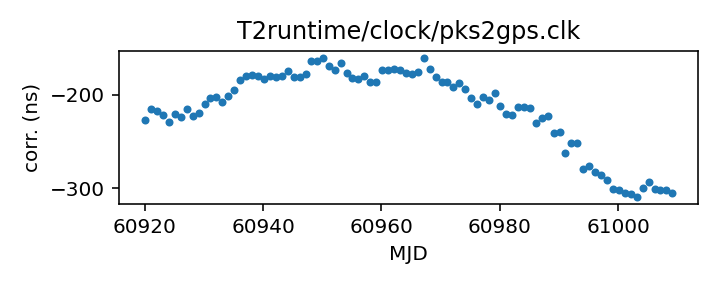
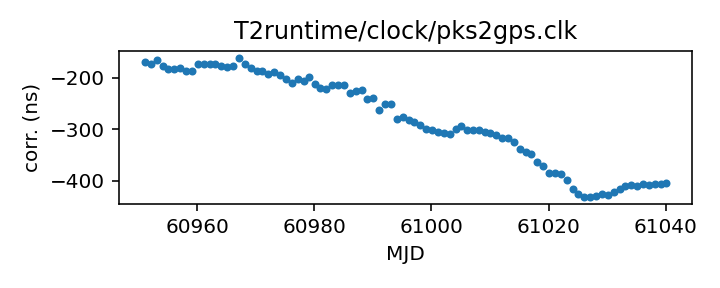
Routine gh-pages update from Github action Mon Jan 19 20:46:36 UTC 2026

diff --git a/status.md b/status.md
@@ -13,18 +13,18 @@ name of each clock file links to a page with more details.
 
 | Name | File | Corrections start | Corrections end | Last check date | Last check result 
 |:--- |:--- | --- | --- | --- |:--- 
-| [GPS to UTC](T2runtime/clock/gps2utc.clk.html) | `T2runtime/clock/gps2utc.clk` | 1993-01-01 MJD 48988.0 | 2025-12-30 MJD 61039.0 | 2026-01-18 | Unchanged 
-| [GPS to UTC (Combined Clock)](T2runtime/clock/gps2utc_cc.clk.html) | `T2runtime/clock/gps2utc_cc.clk` | 1993-01-01 MJD 48988.0 | 2025-12-30 MJD 61039.0 | 2026-01-18 | Unchanged 
-| [GPS to UTC (Corrected)](T2runtime/clock/gps2utc_c0p.clk.html) | `T2runtime/clock/gps2utc_c0p.clk` | 2010-12-29 MJD 55559.0 | 2025-12-30 MJD 61039.0 | 2026-01-18 | Unchanged 
-| [GBT](tempo/clock/time_gbt.dat.html) | `tempo/clock/time_gbt.dat` | 2000-12-31 MJD 51909.5 | 2026-01-17 MJD 61057.5 | 2026-01-18 | Updated 
-| [GBT (TEMPO2 converted from TEMPO)](T2runtime/clock/gbt2gps.clk.html) | `T2runtime/clock/gbt2gps.clk` | 2000-12-31 MJD 51909.5 | 2024-05-18 MJD 60448.5 | 2026-01-18 | **Validation failed** 
-| [Jodrell Bank](T2runtime/clock/jb2gps.clk.html) | `T2runtime/clock/jb2gps.clk` | 2006-10-13 MJD 54021.4 | 2025-10-08 MJD 60956.0 | 2026-01-12 | **Validation failed** 
-| [Jodrell Bank Roach](T2runtime/clock/jbroach2jb.clk.html) | `T2runtime/clock/jbroach2jb.clk` | 2006-10-13 MJD 54021.4 | 2018-03-20 MJD 58197.6 | 2026-01-12 | Unchanged 
-| [Jodrell Bank DFB](T2runtime/clock/jbdfb2jb.clk.html) | `T2runtime/clock/jbdfb2jb.clk` | 2006-10-13 MJD 54021.4 | 2021-02-22 MJD 59268.0 | 2026-01-12 | Unchanged 
-| [Meerkat (observatory)](T2runtime/clock/mk2utc_observatory.clk.html) | `T2runtime/clock/mk2utc_observatory.clk` | 2019-01-01 MJD 58484.0 | 2026-01-07 MJD 61048.0 | 2026-01-12 | Updated 
-| [Leap seconds](tempo/clock/leap.sec.html) | `tempo/clock/leap.sec` | 1972-07-01 MJD 41499.0 | 2017-01-01 MJD 57754.0 | 2026-01-18 | Unchanged 
-| [UT1 table](tempo/clock/ut1.dat.html) | `tempo/clock/ut1.dat` | 1973-01-02 MJD 41684.0 | 2027-01-23 MJD 61428.0 | 2026-01-18 | Unchanged 
-| [UT1 table](T2runtime/clock/ut1.dat.html) | `T2runtime/clock/ut1.dat` | 1973-01-02 MJD 41684.0 | 2027-01-23 MJD 61428.0 | 2026-01-18 | Unchanged 
+| [GPS to UTC](T2runtime/clock/gps2utc.clk.html) | `T2runtime/clock/gps2utc.clk` | 1993-01-01 MJD 48988.0 | 2025-12-30 MJD 61039.0 | 2026-01-19 | Unchanged 
+| [GPS to UTC (Combined Clock)](T2runtime/clock/gps2utc_cc.clk.html) | `T2runtime/clock/gps2utc_cc.clk` | 1993-01-01 MJD 48988.0 | 2025-12-30 MJD 61039.0 | 2026-01-19 | Unchanged 
+| [GPS to UTC (Corrected)](T2runtime/clock/gps2utc_c0p.clk.html) | `T2runtime/clock/gps2utc_c0p.clk` | 2010-12-29 MJD 55559.0 | 2025-12-30 MJD 61039.0 | 2026-01-19 | Unchanged 
+| [GBT](tempo/clock/time_gbt.dat.html) | `tempo/clock/time_gbt.dat` | 2000-12-31 MJD 51909.5 | 2026-01-18 MJD 61058.5 | 2026-01-19 | Updated 
+| [GBT (TEMPO2 converted from TEMPO)](T2runtime/clock/gbt2gps.clk.html) | `T2runtime/clock/gbt2gps.clk` | 2000-12-31 MJD 51909.5 | 2024-05-18 MJD 60448.5 | 2026-01-19 | **Validation failed** 
+| [Jodrell Bank](T2runtime/clock/jb2gps.clk.html) | `T2runtime/clock/jb2gps.clk` | 2006-10-13 MJD 54021.4 | 2025-10-08 MJD 60956.0 | 2026-01-19 | **Validation failed** 
+| [Jodrell Bank Roach](T2runtime/clock/jbroach2jb.clk.html) | `T2runtime/clock/jbroach2jb.clk` | 2006-10-13 MJD 54021.4 | 2018-03-20 MJD 58197.6 | 2026-01-19 | Unchanged 
+| [Jodrell Bank DFB](T2runtime/clock/jbdfb2jb.clk.html) | `T2runtime/clock/jbdfb2jb.clk` | 2006-10-13 MJD 54021.4 | 2021-02-22 MJD 59268.0 | 2026-01-19 | Unchanged 
+| [Meerkat (observatory)](T2runtime/clock/mk2utc_observatory.clk.html) | `T2runtime/clock/mk2utc_observatory.clk` | 2019-01-01 MJD 58484.0 | 2026-01-07 MJD 61048.0 | 2026-01-19 | Unchanged 
+| [Leap seconds](tempo/clock/leap.sec.html) | `tempo/clock/leap.sec` | 1972-07-01 MJD 41499.0 | 2017-01-01 MJD 57754.0 | 2026-01-19 | Unchanged 
+| [UT1 table](tempo/clock/ut1.dat.html) | `tempo/clock/ut1.dat` | 1973-01-02 MJD 41684.0 | 2027-01-23 MJD 61428.0 | 2026-01-19 | Unchanged 
+| [UT1 table](T2runtime/clock/ut1.dat.html) | `T2runtime/clock/ut1.dat` | 1973-01-02 MJD 41684.0 | 2027-01-23 MJD 61428.0 | 2026-01-19 | Unchanged 
 
 
 
@@ -68,26 +68,26 @@ name of each clock file links to a page with more details.
 
 | Name | File | Corrections start | Corrections end | Last check date | Last check result 
 |:--- |:--- | --- | --- | --- |:--- 
-| [GPS to UTC (TEMPO2)](T2runtime/clock/gpst2utc_tempo2.clk.html) | `T2runtime/clock/gpst2utc_tempo2.clk` | 1993-01-01 MJD 48988.0 | 2024-12-30 MJD 60674.0 | 2026-01-12 | Unchanged 
-| [GBT (TEMPO2)](T2runtime/clock/gbt2gps_tempo2.clk.html) | `T2runtime/clock/gbt2gps_tempo2.clk` | 2000-12-31 MJD 51909.5 | 2020-02-25 MJD 58904.5 | 2026-01-12 | Unchanged 
-| [Jodrell Bank (TEMPO)](tempo/clock/time_jb.dat.html) | `tempo/clock/time_jb.dat` | 2006-10-13 MJD 54021.4 | 2019-05-13 MJD 58616.2 | 2026-01-12 | Unchanged 
-| [VLA](tempo/clock/time_vla.dat.html) | `tempo/clock/time_vla.dat` | 1990-10-27 MJD 48191.2 | 2025-02-10 MJD 60716.2 | 2026-01-12 | Unchanged 
-| [VLA (TEMPO2)](T2runtime/clock/vla2gps.clk.html) | `T2runtime/clock/vla2gps.clk` | 2015-02-01 MJD 57054.6 | 2025-02-10 MJD 60716.2 | 2026-01-12 | Unchanged 
-| [VLA to NIST](T2runtime/clock/vla2nist.clk.html) | `T2runtime/clock/vla2nist.clk` | 1990-10-27 MJD 48191.2 | 1993-11-13 MJD 49304.0 | 2026-01-12 | Unchanged 
-| [FAST](tempo/clock/time_fast.dat.html) | `tempo/clock/time_fast.dat` | 2017-07-27 MJD 57961.0 | 2025-08-25 MJD 60913.0 | 2026-01-12 | **Failed to download** 
-| [WSRT](T2runtime/clock/wsrt2gps.clk.html) | `T2runtime/clock/wsrt2gps.clk` | 1999-01-01 MJD 51179.5 | 2015-06-29 MJD 57202.1 | 2026-01-12 | Unchanged 
-| [WSRT (TEMPO)](tempo/clock/time_wsrt.dat.html) | `tempo/clock/time_wsrt.dat` | 1987-07-24 MJD 47000.0 | 2007-12-24 MJD 54458.0 | 2026-01-12 | **Validation failed** 
-| [Parkes](T2runtime/clock/pks2gps.clk.html) | `T2runtime/clock/pks2gps.clk` | 1858-11-17 MJD 0.0 | 2025-11-30 MJD 61009.1 | 2026-01-12 | Unchanged 
-| [Parkes (TEMPO)](tempo/clock/time_pks.dat.html) | `tempo/clock/time_pks.dat` | 1979-05-07 MJD 44000.0 | 2011-07-03 MJD 55745.8 | 2026-01-12 | Unchanged 
-| [SRT](T2runtime/clock/srt2gps.clk.html) | `T2runtime/clock/srt2gps.clk` | 2013-03-20 MJD 56371.0 | 2019-12-11 MJD 58828.0 | 2026-01-12 | Unchanged 
-| [Effelsberg](T2runtime/clock/eff2gps.clk.html) | `T2runtime/clock/eff2gps.clk` | 1993-11-29 MJD 49320.0 | 2015-06-22 MJD 57195.5 | 2026-01-12 | Unchanged 
-| [Effelsberg Asterix/PSRix](T2runtime/clock/effix2gps.clk.html) | `T2runtime/clock/effix2gps.clk` | 2011-01-01 MJD 55562.5 | 2021-03-21 MJD 59294.5 | 2026-01-12 | Unchanged 
-| [LEAP](T2runtime/clock/leap2effix.clk.html) | `T2runtime/clock/leap2effix.clk` | 2012-10-29 MJD 56230.0 | 2014-03-04 MJD 56720.0 | 2026-01-12 | Unchanged 
-| [NUPPI](tempo/clock/time_nuppi.dat.html) | `tempo/clock/time_nuppi.dat` | 2005-03-07 MJD 53436.0 | 2015-11-08 MJD 57334.6 | 2026-01-12 | Unchanged 
-| [Meerkat (TEMPO2)](T2runtime/clock/mk2utc.clk.html) | `T2runtime/clock/mk2utc.clk` | 2019-01-01 MJD 58484.0 | 2024-09-23 MJD 60576.9 | 2026-01-12 | **Validation failed** 
-| [MOST](T2runtime/clock/mo2gps.clk.html) | `T2runtime/clock/mo2gps.clk` | 2003-12-27 MJD 53000.0 | 2018-09-06 MJD 58367.0 | 2026-01-12 | Unchanged 
-| [Nancay to obspm](T2runtime/clock/ncyobs2obspm.clk.html) | `T2runtime/clock/ncyobs2obspm.clk` | 1988-05-18 MJD 47299.6 | 2024-12-30 MJD 60674.0 | 2026-01-12 | Unchanged 
-| [obspm](T2runtime/clock/obspm2gps.clk.html) | `T2runtime/clock/obspm2gps.clk` | 2003-12-01 MJD 52974.0 | 2023-10-27 MJD 60244.0 | 2026-01-12 | Unchanged 
+| [GPS to UTC (TEMPO2)](T2runtime/clock/gpst2utc_tempo2.clk.html) | `T2runtime/clock/gpst2utc_tempo2.clk` | 1993-01-01 MJD 48988.0 | 2024-12-30 MJD 60674.0 | 2026-01-19 | Unchanged 
+| [GBT (TEMPO2)](T2runtime/clock/gbt2gps_tempo2.clk.html) | `T2runtime/clock/gbt2gps_tempo2.clk` | 2000-12-31 MJD 51909.5 | 2020-02-25 MJD 58904.5 | 2026-01-19 | Unchanged 
+| [Jodrell Bank (TEMPO)](tempo/clock/time_jb.dat.html) | `tempo/clock/time_jb.dat` | 2006-10-13 MJD 54021.4 | 2019-05-13 MJD 58616.2 | 2026-01-19 | Unchanged 
+| [VLA](tempo/clock/time_vla.dat.html) | `tempo/clock/time_vla.dat` | 1990-10-27 MJD 48191.2 | 2025-02-10 MJD 60716.2 | 2026-01-19 | Unchanged 
+| [VLA (TEMPO2)](T2runtime/clock/vla2gps.clk.html) | `T2runtime/clock/vla2gps.clk` | 2015-02-01 MJD 57054.6 | 2025-02-10 MJD 60716.2 | 2026-01-19 | Unchanged 
+| [VLA to NIST](T2runtime/clock/vla2nist.clk.html) | `T2runtime/clock/vla2nist.clk` | 1990-10-27 MJD 48191.2 | 1993-11-13 MJD 49304.0 | 2026-01-19 | Unchanged 
+| [FAST](tempo/clock/time_fast.dat.html) | `tempo/clock/time_fast.dat` | 2017-07-27 MJD 57961.0 | 2025-08-25 MJD 60913.0 | 2026-01-19 | **Failed to download** 
+| [WSRT](T2runtime/clock/wsrt2gps.clk.html) | `T2runtime/clock/wsrt2gps.clk` | 1999-01-01 MJD 51179.5 | 2015-06-29 MJD 57202.1 | 2026-01-19 | Unchanged 
+| [WSRT (TEMPO)](tempo/clock/time_wsrt.dat.html) | `tempo/clock/time_wsrt.dat` | 1987-07-24 MJD 47000.0 | 2007-12-24 MJD 54458.0 | 2026-01-19 | **Validation failed** 
+| [Parkes](T2runtime/clock/pks2gps.clk.html) | `T2runtime/clock/pks2gps.clk` | 1858-11-17 MJD 0.0 | 2025-12-31 MJD 61040.1 | 2026-01-19 | Updated 
+| [Parkes (TEMPO)](tempo/clock/time_pks.dat.html) | `tempo/clock/time_pks.dat` | 1979-05-07 MJD 44000.0 | 2011-07-03 MJD 55745.8 | 2026-01-19 | Unchanged 
+| [SRT](T2runtime/clock/srt2gps.clk.html) | `T2runtime/clock/srt2gps.clk` | 2013-03-20 MJD 56371.0 | 2019-12-11 MJD 58828.0 | 2026-01-19 | Unchanged 
+| [Effelsberg](T2runtime/clock/eff2gps.clk.html) | `T2runtime/clock/eff2gps.clk` | 1993-11-29 MJD 49320.0 | 2015-06-22 MJD 57195.5 | 2026-01-19 | Unchanged 
+| [Effelsberg Asterix/PSRix](T2runtime/clock/effix2gps.clk.html) | `T2runtime/clock/effix2gps.clk` | 2011-01-01 MJD 55562.5 | 2021-03-21 MJD 59294.5 | 2026-01-19 | Unchanged 
+| [LEAP](T2runtime/clock/leap2effix.clk.html) | `T2runtime/clock/leap2effix.clk` | 2012-10-29 MJD 56230.0 | 2014-03-04 MJD 56720.0 | 2026-01-19 | Unchanged 
+| [NUPPI](tempo/clock/time_nuppi.dat.html) | `tempo/clock/time_nuppi.dat` | 2005-03-07 MJD 53436.0 | 2015-11-08 MJD 57334.6 | 2026-01-19 | Unchanged 
+| [Meerkat (TEMPO2)](T2runtime/clock/mk2utc.clk.html) | `T2runtime/clock/mk2utc.clk` | 2019-01-01 MJD 58484.0 | 2024-09-23 MJD 60576.9 | 2026-01-19 | **Validation failed** 
+| [MOST](T2runtime/clock/mo2gps.clk.html) | `T2runtime/clock/mo2gps.clk` | 2003-12-27 MJD 53000.0 | 2018-09-06 MJD 58367.0 | 2026-01-19 | Unchanged 
+| [Nancay to obspm](T2runtime/clock/ncyobs2obspm.clk.html) | `T2runtime/clock/ncyobs2obspm.clk` | 1988-05-18 MJD 47299.6 | 2024-12-30 MJD 60674.0 | 2026-01-19 | Unchanged 
+| [obspm](T2runtime/clock/obspm2gps.clk.html) | `T2runtime/clock/obspm2gps.clk` | 2003-12-01 MJD 52974.0 | 2023-10-27 MJD 60244.0 | 2026-01-19 | Unchanged 
 
 
 ### Further information:

diff --git a/T2runtime/clock/gbt2gps.clk.md b/T2runtime/clock/gbt2gps.clk.md
@@ -25,12 +25,11 @@ If questions arise about the conversion, contact Anne Archibald
 | Clock file start | 2000-12-31 MJD 51909.5 |
 | Clock file end | 2024-05-18 MJD 60448.5 |
 | Update interval (days) | 1 |
-| Last update attempt | 2026-01-18 |
+| Last update attempt | 2026-01-19 |
 | Last update result | Validation failed |
 
 Log entries from the last few update attempts:
 ```
-2026-01-09 20:46:23.076 - Validation failed: New version of T2runtime/clock/gbt2gps.clk MJDs differ from old version where they overlap in 8407 places
 2026-01-10 20:43:50.411 - Validation failed: New version of T2runtime/clock/gbt2gps.clk MJDs differ from old version where they overlap in 8407 places
 2026-01-11 20:44:08.374 - Validation failed: New version of T2runtime/clock/gbt2gps.clk MJDs differ from old version where they overlap in 8407 places
 2026-01-12 20:46:41.307 - Validation failed: New version of T2runtime/clock/gbt2gps.clk MJDs differ from old version where they overlap in 8407 places
@@ -40,6 +39,7 @@ Log entries from the last few update attempts:
 2026-01-16 20:43:37.676 - Validation failed: New version of T2runtime/clock/gbt2gps.clk MJDs differ from old version where they overlap in 8407 places
 2026-01-17 20:43:20.455 - Validation failed: New version of T2runtime/clock/gbt2gps.clk MJDs differ from old version where they overlap in 8407 places
 2026-01-18 20:43:22.544 - Validation failed: New version of T2runtime/clock/gbt2gps.clk MJDs differ from old version where they overlap in 8407 places
+2026-01-19 20:45:51.865 - Validation failed: New version of T2runtime/clock/gbt2gps.clk MJDs differ from old version where they overlap in 8407 places
 ```
 [Full log](https://raw.githubusercontent.com/ipta/pulsar-clock-corrections/main/log/T2runtime/clock/gbt2gps.clk.log)
 

diff --git a/T2runtime/clock/mk2utc.clk.md b/T2runtime/clock/mk2utc.clk.md
@@ -17,12 +17,11 @@ up-to-date.
 | Clock file start | 2019-01-01 MJD 58484.0 |
 | Clock file end | 2024-09-23 MJD 60576.9 |
 | Update interval (days) | 7 |
-| Last update attempt | 2026-01-12 |
+| Last update attempt | 2026-01-19 |
 | Last update result | Validation failed |
 
 Log entries from the last few update attempts:
 ```
-2025-11-10 20:44:59.209 - Validation failed: New version of T2runtime/clock/mk2utc.clk MJDs differ from old version where they overlap in 8252 places
 2025-11-17 20:41:50.637 - Validation failed: New version of T2runtime/clock/mk2utc.clk MJDs differ from old version where they overlap in 8252 places
 2025-11-24 20:42:18.833 - Validation failed: New version of T2runtime/clock/mk2utc.clk MJDs differ from old version where they overlap in 8252 places
 2025-12-01 20:40:24.422 - Validation failed: New version of T2runtime/clock/mk2utc.clk MJDs differ from old version where they overlap in 8252 places
@@ -32,6 +31,7 @@ Log entries from the last few update attempts:
 2025-12-29 20:46:01.026 - Validation failed: New version of T2runtime/clock/mk2utc.clk MJDs differ from old version where they overlap in 8252 places
 2026-01-05 20:47:24.469 - Validation failed: New version of T2runtime/clock/mk2utc.clk MJDs differ from old version where they overlap in 8252 places
 2026-01-12 20:46:57.288 - Validation failed: New version of T2runtime/clock/mk2utc.clk MJDs differ from old version where they overlap in 8252 places
+2026-01-19 20:46:13.523 - Validation failed: New version of T2runtime/clock/mk2utc.clk MJDs differ from old version where they overlap in 8252 places
 ```
 [Full log](https://raw.githubusercontent.com/ipta/pulsar-clock-corrections/main/log/T2runtime/clock/mk2utc.clk.log)
 

diff --git a/tempo/clock/time_wsrt.dat.md b/tempo/clock/time_wsrt.dat.md
@@ -20,12 +20,11 @@ should be the same information.
 | Clock file start | 1987-07-24 MJD 47000.0 |
 | Clock file end | 2007-12-24 MJD 54458.0 |
 | Update interval (days) | 7 |
-| Last update attempt | 2026-01-12 |
+| Last update attempt | 2026-01-19 |
 | Last update result | Validation failed |
 
 Log entries from the last few update attempts:
 ```
-2025-11-10 20:44:41.093 - Validation failed: New version of tempo/clock/time_wsrt.dat MJDs differ from old version where they overlap in 5 places
 2025-11-17 20:41:29.092 - Validation failed: New version of tempo/clock/time_wsrt.dat MJDs differ from old version where they overlap in 5 places
 2025-11-24 20:42:06.542 - Validation failed: New version of tempo/clock/time_wsrt.dat MJDs differ from old version where they overlap in 5 places
 2025-12-01 20:39:55.383 - Validation failed: New version of tempo/clock/time_wsrt.dat MJDs differ from old version where they overlap in 5 places
@@ -35,6 +34,7 @@ Log entries from the last few update attempts:
 2025-12-29 20:45:50.302 - Validation failed: New version of tempo/clock/time_wsrt.dat MJDs differ from old version where they overlap in 5 places
 2026-01-05 20:47:13.857 - Validation failed: New version of tempo/clock/time_wsrt.dat MJDs differ from old version where they overlap in 5 places
 2026-01-12 20:46:46.097 - Validation failed: New version of tempo/clock/time_wsrt.dat MJDs differ from old version where they overlap in 5 places
+2026-01-19 20:45:55.680 - Validation failed: New version of tempo/clock/time_wsrt.dat MJDs differ from old version where they overlap in 5 places
 ```
 [Full log](https://raw.githubusercontent.com/ipta/pulsar-clock-corrections/main/log/tempo/clock/time_wsrt.dat.log)
 

diff --git a/T2runtime/clock/jb2gps.clk.md b/T2runtime/clock/jb2gps.clk.md
@@ -24,12 +24,11 @@ If questions arise, contact Michael Keith
 | Clock file start | 2006-10-13 MJD 54021.4 |
 | Clock file end | 2025-10-08 MJD 60956.0 |
 | Update interval (days) | 7 |
-| Last update attempt | 2026-01-12 |
+| Last update attempt | 2026-01-19 |
 | Last update result | Validation failed |
 
 Log entries from the last few update attempts:
 ```
-2025-11-10 20:44:38.435 - Unchanged
 2025-11-17 20:41:26.358 - Unchanged
 2025-11-24 20:42:04.141 - Unchanged
 2025-12-01 20:39:53.361 - Unchanged
@@ -39,6 +38,7 @@ Log entries from the last few update attempts:
 2025-12-29 20:45:48.346 - Validation failed: New version of T2runtime/clock/jb2gps.clk clock corrections differ from old version where they overlap in 177 places
 2026-01-05 20:47:11.922 - Validation failed: New version of T2runtime/clock/jb2gps.clk clock corrections differ from old version where they overlap in 177 places
 2026-01-12 20:46:43.663 - Validation failed: New version of T2runtime/clock/jb2gps.clk clock corrections differ from old version where they overlap in 177 places
+2026-01-19 20:45:53.907 - Validation failed: New version of T2runtime/clock/jb2gps.clk clock corrections differ from old version where they overlap in 177 places
 ```
 [Full log](https://raw.githubusercontent.com/ipta/pulsar-clock-corrections/main/log/T2runtime/clock/jb2gps.clk.log)
 

diff --git a/T2runtime/clock/pks2gps.clk.md b/T2runtime/clock/pks2gps.clk.md
@@ -29,18 +29,17 @@ we retain it.
 | File | `T2runtime/clock/pks2gps.clk` |
 | Authority | temporary |
 | URL in repository | <https://raw.githubusercontent.com/ipta/pulsar-clock-corrections/main/T2runtime/clock/pks2gps.clk> |
-| Original download URL | <https://www.parkes.atnf.csiro.au/observing/clockfiles/pks2gps.clk.20251201> |
+| Original download URL | <https://www.parkes.atnf.csiro.au/observing/clockfiles/pks2gps.clk.20260101> |
 | Format | tempo2 |
 | Bogus last correction | False |
 | Clock file start | 1858-11-17 MJD 0.0 |
-| Clock file end | 2025-11-30 MJD 61009.1 |
+| Clock file end | 2025-12-31 MJD 61040.1 |
 | Update interval (days) | 7 |
-| Last update attempt | 2026-01-12 |
-| Last update result | Unchanged |
+| Last update attempt | 2026-01-19 |
+| Last update result | Updated |
 
 Log entries from the last few update attempts:
 ```
-2025-11-10 20:44:44.539 - Unchanged
 2025-11-17 20:41:32.854 - Unchanged
 2025-11-24 20:42:09.805 - Unchanged
 2025-12-01 20:39:59.448 - Unchanged
@@ -50,6 +49,7 @@ Log entries from the last few update attempts:
 2025-12-29 20:45:53.913 - Unchanged
 2026-01-05 20:47:18.367 - Unchanged
 2026-01-12 20:46:50.503 - Unchanged
+2026-01-19 20:46:00.322 - Updated
 ```
 [Full log](https://raw.githubusercontent.com/ipta/pulsar-clock-corrections/main/log/T2runtime/clock/pks2gps.clk.log)
 

diff --git a/tempo/clock/time_fast.dat.md b/tempo/clock/time_fast.dat.md
@@ -16,12 +16,11 @@ This file is pulled from the FAST_ClockFile repository.
 | Clock file start | 2017-07-27 MJD 57961.0 |
 | Clock file end | 2025-08-25 MJD 60913.0 |
 | Update interval (days) | 7 |
-| Last update attempt | 2026-01-12 |
+| Last update attempt | 2026-01-19 |
 | Last update result | Failed to download |
 
 Log entries from the last few update attempts:
 ```
-2025-11-10 20:44:40.322 - Failed to download: HTTP Error 404: Not Found
 2025-11-17 20:41:28.304 - Failed to download: HTTP Error 404: Not Found
 2025-11-24 20:42:05.814 - Failed to download: HTTP Error 404: Not Found
 2025-12-01 20:39:54.759 - Failed to download: HTTP Error 404: Not Found
@@ -31,6 +30,7 @@ Log entries from the last few update attempts:
 2025-12-29 20:45:49.728 - Failed to download: HTTP Error 404: Not Found
 2026-01-05 20:47:13.160 - Failed to download: HTTP Error 404: Not Found
 2026-01-12 20:46:45.350 - Failed to download: HTTP Error 404: Not Found
+2026-01-19 20:45:54.946 - Failed to download: HTTP Error 404: Not Found
 ```
 [Full log](https://raw.githubusercontent.com/ipta/pulsar-clock-corrections/main/log/tempo/clock/time_fast.dat.log)
 

diff --git a/tempo/clock/time_gbt.dat.md b/tempo/clock/time_gbt.dat.md
@@ -36,14 +36,13 @@ If questions arise, contact Ryan S. Lynch <rlynch@nrao.edu>.
 | Format | tempo |
 | Bogus last correction | False |
 | Clock file start | 2000-12-31 MJD 51909.5 |
-| Clock file end | 2026-01-17 MJD 61057.5 |
+| Clock file end | 2026-01-18 MJD 61058.5 |
 | Update interval (days) | 1 |
-| Last update attempt | 2026-01-18 |
+| Last update attempt | 2026-01-19 |
 | Last update result | Updated |
 
 Log entries from the last few update attempts:
 ```
-2026-01-09 20:46:23.004 - Updated
 2026-01-10 20:43:50.337 - Updated
 2026-01-11 20:44:08.306 - Updated
 2026-01-12 20:46:40.849 - Updated
@@ -53,12 +52,13 @@ Log entries from the last few update attempts:
 2026-01-16 20:43:37.602 - Updated
 2026-01-17 20:43:20.381 - Updated
 2026-01-18 20:43:22.471 - Updated
+2026-01-19 20:45:51.571 - Updated
 ```
 [Full log](https://raw.githubusercontent.com/ipta/pulsar-clock-corrections/main/log/tempo/clock/time_gbt.dat.log)
 
 Leading comments from clock file:
 
-     -2271.50       0.0        -0.486 1    32767-dec
+     -2271.50       0.0        -0.486 1    32766-dec
 
 
 

diff --git a/T2runtime/clock/mk2utc_observatory.clk.md b/T2runtime/clock/mk2utc_observatory.clk.md
@@ -21,12 +21,11 @@ If questions arise, contact Ryan Shannon <rshannon@swin.edu.au>
 | Clock file start | 2019-01-01 MJD 58484.0 |
 | Clock file end | 2026-01-07 MJD 61048.0 |
 | Update interval (days) | 7 |
-| Last update attempt | 2026-01-12 |
-| Last update result | Updated |
+| Last update attempt | 2026-01-19 |
+| Last update result | Unchanged |
 
 Log entries from the last few update attempts:
 ```
-2025-11-10 20:44:57.437 - Failed to download: <urlopen error _ssl.c:999: The handshake operation timed out>
 2025-11-17 20:41:48.816 - Updated
 2025-11-24 20:42:17.159 - Updated
 2025-12-01 20:40:23.018 - Unchanged
@@ -36,6 +35,7 @@ Log entries from the last few update attempts:
 2025-12-29 20:45:59.660 - Unchanged
 2026-01-05 20:47:23.154 - Unchanged
 2026-01-12 20:46:55.870 - Updated
+2026-01-19 20:46:12.227 - Unchanged
 ```
 [Full log](https://raw.githubusercontent.com/ipta/pulsar-clock-corrections/main/log/T2runtime/clock/mk2utc_observatory.clk.log)
 

diff --git a/T2runtime/clock/gps2utc_c0p.clk.md b/T2runtime/clock/gps2utc_c0p.clk.md
@@ -30,12 +30,11 @@ about the BIPM's published corrections, contact <tai@bipm.org>.
 | Clock file start | 2010-12-29 MJD 55559.0 |
 | Clock file end | 2025-12-30 MJD 61039.0 |
 | Update interval (days) | 1 |
-| Last update attempt | 2026-01-18 |
+| Last update attempt | 2026-01-19 |
 | Last update result | Unchanged |
 
 Log entries from the last few update attempts:
 ```
-2026-01-09 20:46:21.741 - Updated
 2026-01-10 20:43:49.791 - Unchanged
 2026-01-11 20:44:07.262 - Unchanged
 2026-01-12 20:46:40.340 - Unchanged
@@ -45,6 +44,7 @@ Log entries from the last few update attempts:
 2026-01-16 20:43:36.648 - Unchanged
 2026-01-17 20:43:19.361 - Unchanged
 2026-01-18 20:43:22.066 - Unchanged
+2026-01-19 20:45:51.123 - Unchanged
 ```
 [Full log](https://raw.githubusercontent.com/ipta/pulsar-clock-corrections/main/log/T2runtime/clock/gps2utc_c0p.clk.log)
 

diff --git a/tempo/clock/time_pks.dat.md b/tempo/clock/time_pks.dat.md
@@ -20,12 +20,11 @@ telescopes in the same file, distinguished only by observatory code.
 | Clock file start | 1979-05-07 MJD 44000.0 |
 | Clock file end | 2011-07-03 MJD 55745.8 |
 | Update interval (days) | 7 |
-| Last update attempt | 2026-01-12 |
+| Last update attempt | 2026-01-19 |
 | Last update result | Unchanged |
 
 Log entries from the last few update attempts:
 ```
-2025-11-10 20:44:44.807 - Unchanged
 2025-11-17 20:41:33.120 - Unchanged
 2025-11-24 20:42:10.059 - Unchanged
 2025-12-01 20:39:59.775 - Unchanged
@@ -35,6 +34,7 @@ Log entries from the last few update attempts:
 2025-12-29 20:45:54.422 - Unchanged
 2026-01-05 20:47:18.879 - Unchanged
 2026-01-12 20:46:50.977 - Unchanged
+2026-01-19 20:46:00.677 - Unchanged
 ```
 [Full log](https://raw.githubusercontent.com/ipta/pulsar-clock-corrections/main/log/tempo/clock/time_pks.dat.log)
 

diff --git a/T2runtime/clock/gps2utc_cc.clk.md b/T2runtime/clock/gps2utc_cc.clk.md
@@ -29,12 +29,11 @@ about the BIPM's published corrections, contact <tai@bipm.org>.
 | Clock file start | 1993-01-01 MJD 48988.0 |
 | Clock file end | 2025-12-30 MJD 61039.0 |
 | Update interval (days) | 1 |
-| Last update attempt | 2026-01-18 |
+| Last update attempt | 2026-01-19 |
 | Last update result | Unchanged |
 
 Log entries from the last few update attempts:
 ```
-2026-01-09 20:46:21.715 - Updated
 2026-01-10 20:43:49.783 - Unchanged
 2026-01-11 20:44:07.254 - Unchanged
 2026-01-12 20:46:40.333 - Unchanged
@@ -44,6 +43,7 @@ Log entries from the last few update attempts:
 2026-01-16 20:43:36.640 - Unchanged
 2026-01-17 20:43:19.353 - Unchanged
 2026-01-18 20:43:22.058 - Unchanged
+2026-01-19 20:45:51.115 - Unchanged
 ```
 [Full log](https://raw.githubusercontent.com/ipta/pulsar-clock-corrections/main/log/T2runtime/clock/gps2utc_cc.clk.log)
 
